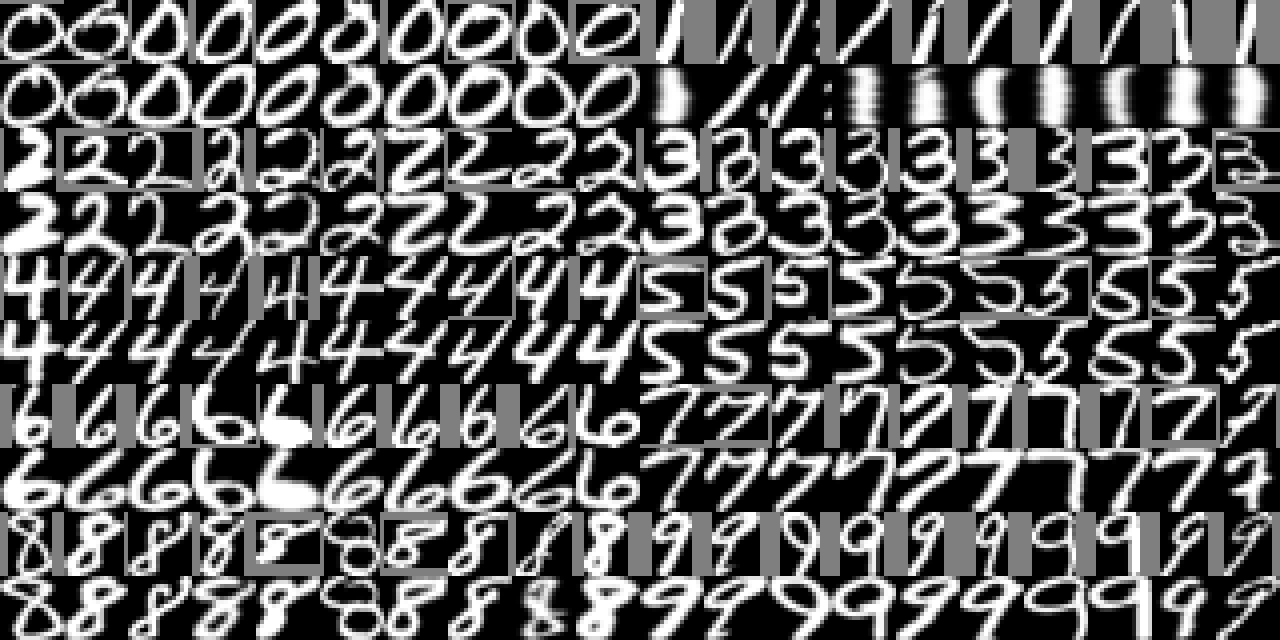
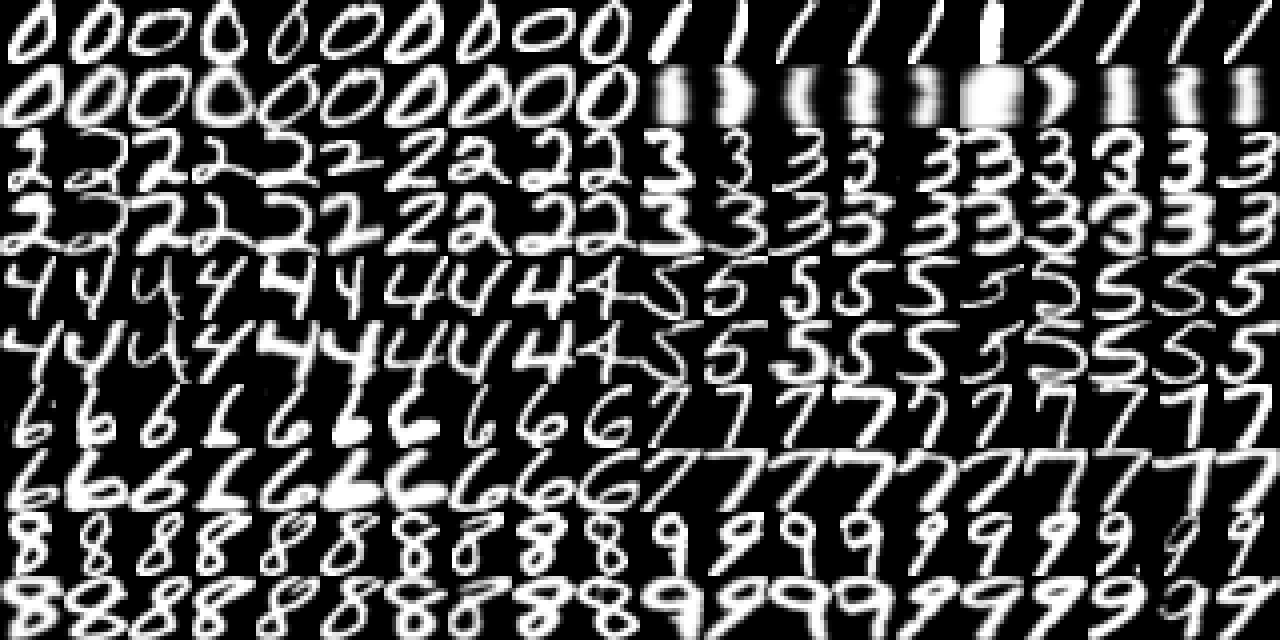
Nice evaluation pic

diff --git a/preprocessing_evaluation.m b/preprocessing_evaluation.m
@@ -19,8 +19,8 @@ images = prnist(digits, 1:1000);
 nimages = length(train_images);
 
 mappings = ...
-    { 'normal', im_fill_norm(train_images, side, .5) ...
-    ; 'gauss', im_resize(train_images*im_filter_speckles*im_rot_norm*im_gauss(1)*im_box(0), [side side], 'bicubic') ...
+    { 'unprocessed', im_fill_norm(train_images, side, 0) ...
+    ; 'processed', im_resize(train_images*im_filter_speckles*im_rot_norm*im_gauss(1)*im_box(0), [side side], 'bicubic') ...
 };
 
 nsets = length(mappings);
